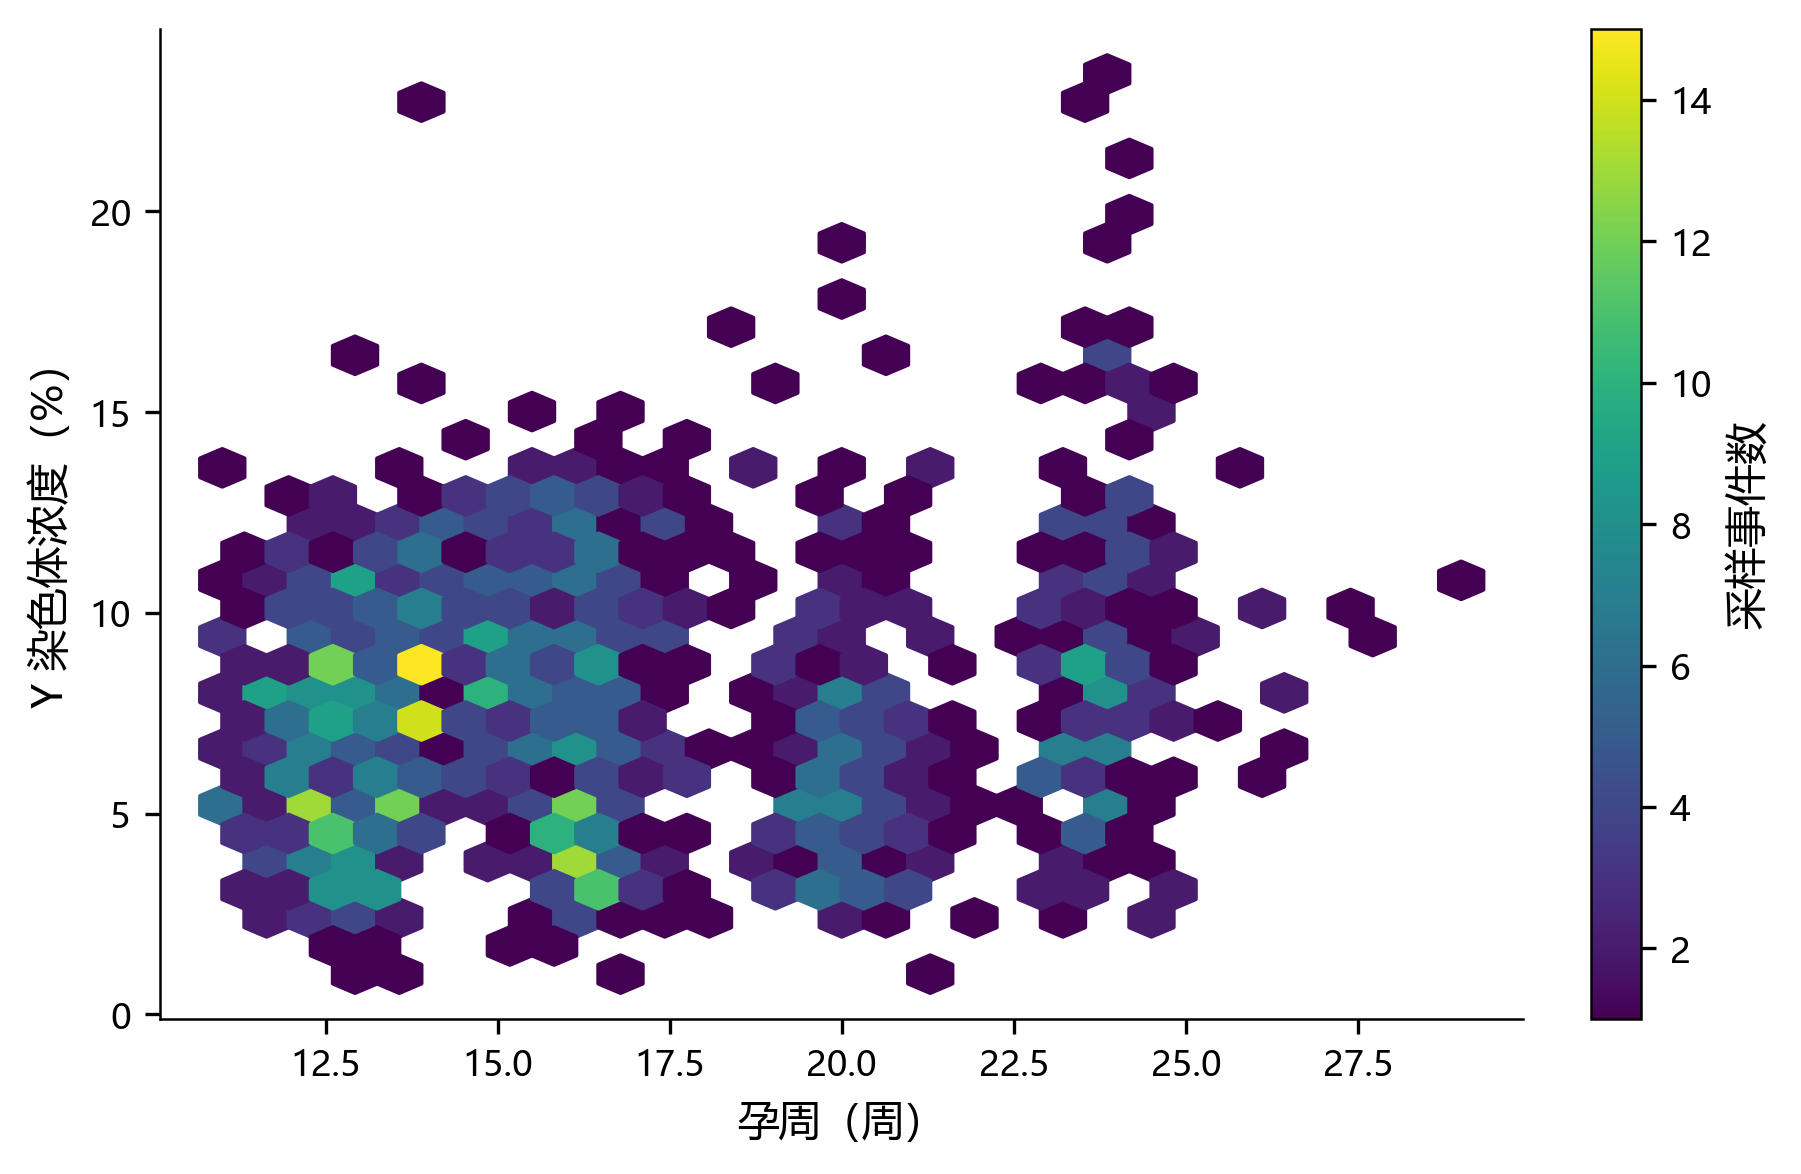
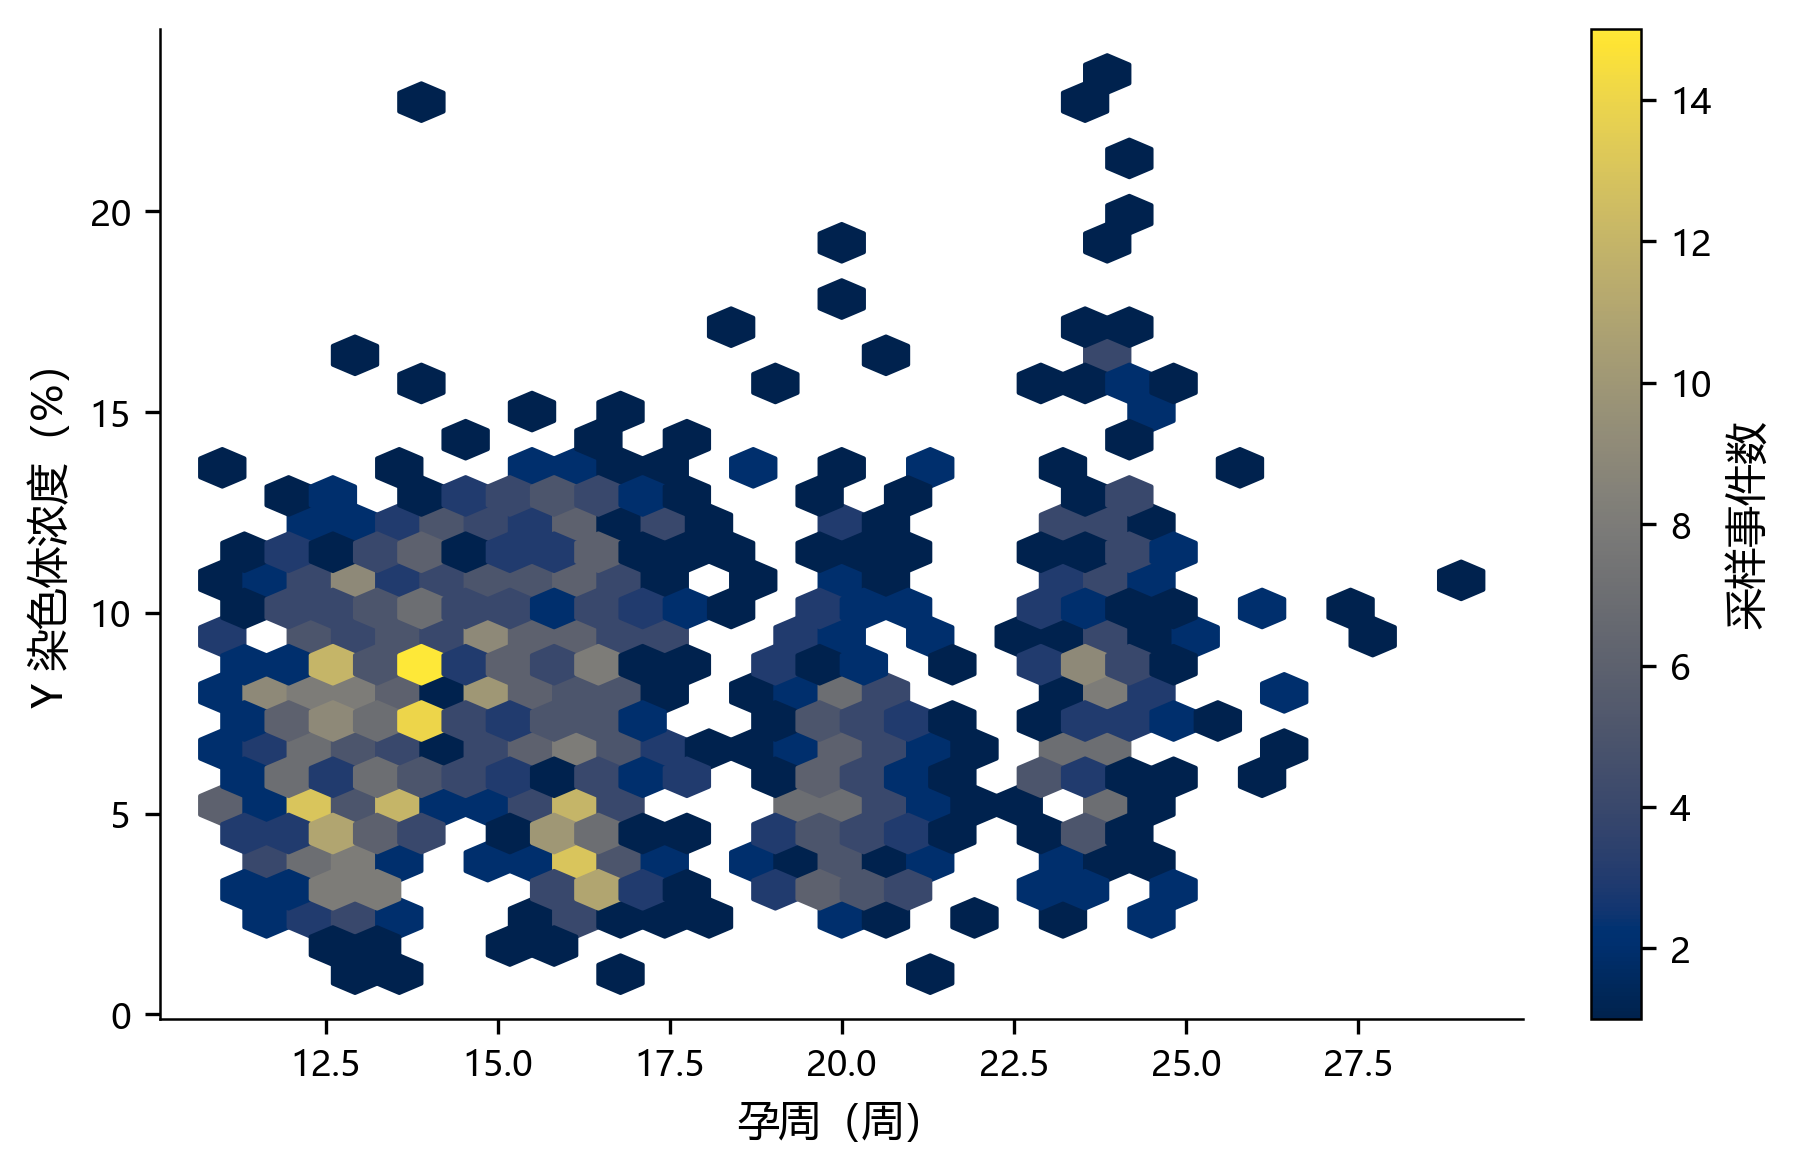
修改第一问图片

diff --git a/src/mycumcm2025c/q1_relationship.py b/src/mycumcm2025c/q1_relationship.py
@@ -12,6 +12,7 @@ import matplotlib.pyplot as plt
 import numpy as np
 import pandas as pd
 import statsmodels.formula.api as smf
+from matplotlib.colors import LinearSegmentedColormap, TwoSlopeNorm
 from scipy import stats
 from statsmodels.genmod.cov_struct import Exchangeable
 from statsmodels.genmod.families import Gaussian
@@ -41,7 +42,21 @@ CONTROLS = [
     "log_raw_reads",
 ]
 
-PLOT_COLORS = ["#0F6BBD", "#F26F21", "#9ECAE1", "#083C5F", "#7F8C8D"]
+PLOT_COLORS = {
+    "blue": "#0072B2",
+    "orange": "#E69F00",
+    "green": "#009E73",
+    "vermillion": "#D55E00",
+    "sky": "#56B4E9",
+    "magenta": "#CC79A7",
+    "grey": "#7A8588",
+    "light_grey": "#C7CDD4",
+    "ink": "#252525",
+}
+CORRELATION_CMAP = LinearSegmentedColormap.from_list(
+    "association", ["#2F6B8A", "#F7F7F5", "#C75B39"]
+)
+DENSITY_CMAP = mpl.colormaps["cividis"]
 
 CONTROL_TERMS = " + ".join([f"{name}_z" for name in CONTROLS] + ["assisted_conception"])
 WEEK_SPLINE = "cr(gestational_weeks, df=4, constraints='center')"
@@ -206,7 +221,7 @@ def key_prediction_table(grid: pd.DataFrame) -> pd.DataFrame:
     return pd.DataFrame(rows)
 
 
-def configure_plot_style() -> list[str]:
+def configure_plot_style() -> dict[str, str]:
     """Apply a self-contained publication style without external skill files."""
     mpl.rcParams.update(
         {
@@ -242,40 +257,87 @@ def create_figures(events: pd.DataFrame, grid: pd.DataFrame, result: object, out
     output_dir.mkdir(parents=True, exist_ok=True)
 
     fig, ax = plt.subplots(figsize=(5.9, 3.8))
-    hb = ax.hexbin(events["gestational_weeks"], 100 * events["y_fraction"], gridsize=28, mincnt=1, cmap="viridis")
+    hb = ax.hexbin(
+        events["gestational_weeks"],
+        100 * events["y_fraction"],
+        gridsize=28,
+        mincnt=1,
+        cmap=DENSITY_CMAP,
+    )
     ax.set(xlabel="孕周（周）", ylabel="Y 染色体浓度（%）")
     fig.colorbar(hb, ax=ax, label="采样事件数")
     fig.savefig(output_dir / "raw_q1_week_hexbin.png", dpi=300, bbox_inches="tight")
     plt.close(fig)
 
     fig, ax = plt.subplots(figsize=(5.9, 3.8))
-    hb = ax.hexbin(events["bmi_analysis"], 100 * events["y_fraction"], gridsize=28, mincnt=1, cmap="viridis")
+    bmi_bins = pd.qcut(events["bmi_analysis"], q=10, duplicates="drop")
+    binned = (
+        events.assign(bmi_bin=bmi_bins)
+        .groupby("bmi_bin", observed=True)
+        .agg(
+            bmi=("bmi_analysis", "median"),
+            y_median=("y_fraction", "median"),
+            y_q1=("y_fraction", lambda values: values.quantile(0.25)),
+            y_q3=("y_fraction", lambda values: values.quantile(0.75)),
+        )
+        .reset_index(drop=True)
+    )
+    ax.errorbar(
+        binned["bmi"],
+        100 * binned["y_median"],
+        yerr=np.vstack(
+            [100 * (binned["y_median"] - binned["y_q1"]), 100 * (binned["y_q3"] - binned["y_median"])]
+        ),
+        fmt="o-",
+        color=colors["vermillion"],
+        markerfacecolor="white",
+        markeredgewidth=1.1,
+        capsize=3,
+    )
     ax.set(xlabel="BMI（kg/m²）", ylabel="Y 染色体浓度（%）")
-    fig.colorbar(hb, ax=ax, label="采样事件数")
-    fig.savefig(output_dir / "raw_q1_bmi_hexbin.png", dpi=300, bbox_inches="tight")
+    fig.savefig(output_dir / "raw_q1_bmi_binned.png", dpi=300, bbox_inches="tight")
     plt.close(fig)
 
     corr_columns = ["y_fraction", "gestational_weeks", "bmi_analysis", "age_years", "gc_ratio", "mapping_ratio", "duplicate_ratio", "filtered_ratio"]
     labels = ["Y浓度", "孕周", "BMI", "年龄", "GC", "比对率", "重复率", "过滤率"]
     corr = events[corr_columns].corr(method="spearman")
     fig, ax = plt.subplots(figsize=(5.9, 4.9))
-    upper_triangle = np.triu(np.ones_like(corr, dtype=bool), k=0)
-    masked_corr = np.ma.array(corr.to_numpy(), mask=upper_triangle)
     off_diagonal_limit = float(np.abs(corr.to_numpy()[~np.eye(len(corr), dtype=bool)]).max())
-    image = ax.imshow(masked_corr, vmin=-off_diagonal_limit, vmax=off_diagonal_limit)
+    norm = TwoSlopeNorm(vmin=-off_diagonal_limit, vcenter=0, vmax=off_diagonal_limit)
+    ax.set_xlim(-0.5, len(labels) - 0.5)
+    ax.set_ylim(len(labels) - 0.5, -0.5)
+    ax.set_aspect("equal")
     ax.set_xticks(range(len(labels)), labels, rotation=45, ha="right")
     ax.set_yticks(range(len(labels)), labels)
     for i in range(len(labels)):
         for j in range(i):
-            ax.text(j, i, f"{corr.iloc[i, j]:.2f}", ha="center", va="center", fontsize=7.5)
-    fig.colorbar(image, ax=ax, label="Spearman 相关系数")
+            value = corr.iloc[i, j]
+            ax.scatter(
+                j,
+                i,
+                s=90 + 650 * abs(value) / off_diagonal_limit,
+                marker="s",
+                c=[value],
+                cmap=CORRELATION_CMAP,
+                norm=norm,
+                edgecolors="white",
+                linewidths=0.7,
+            )
+            ax.text(j, i, f"{value:.2f}", ha="center", va="center", fontsize=7.5, color=colors["ink"])
+    for spine in ax.spines.values():
+        spine.set_visible(False)
+    ax.tick_params(length=0)
+    scalar = mpl.cm.ScalarMappable(norm=norm, cmap=CORRELATION_CMAP)
+    fig.colorbar(scalar, ax=ax, label="Spearman 相关系数", shrink=0.82)
     fig.savefig(output_dir / "raw_q1_correlation_heatmap.png", dpi=300, bbox_inches="tight")
     plt.close(fig)
 
     fig, ax = plt.subplots(figsize=(5.9, 3.8))
-    for color, bmi in zip(colors[:4], sorted(grid["bmi_analysis"].unique())):
+    curve_colors = [colors["blue"], colors["orange"], colors["green"], colors["vermillion"]]
+    line_styles = ["-", "--", "-.", ":"]
+    for color, line_style, bmi in zip(curve_colors, line_styles, sorted(grid["bmi_analysis"].unique())):
         subset = grid[grid["bmi_analysis"] == bmi]
-        ax.plot(subset["gestational_weeks"], 100 * subset["predicted_y_fraction"], color=color, label=f"BMI={bmi:g}")
+        ax.plot(subset["gestational_weeks"], 100 * subset["predicted_y_fraction"], color=color, linestyle=line_style, label=f"BMI={bmi:g}")
         ax.fill_between(subset["gestational_weeks"], 100 * subset["ci_low"], 100 * subset["ci_high"], color=color, alpha=0.12)
     ax.axhline(4, color="#555555", linestyle="--", linewidth=0.9)
     ax.set(xlabel="孕周（周）", ylabel="调整后 Y 染色体浓度（%）")
@@ -287,27 +349,42 @@ def create_figures(events: pd.DataFrame, grid: pd.DataFrame, result: object, out
     observed = events["logit_y"].to_numpy()
     residual = observed - fitted
     fig, ax = plt.subplots(figsize=(5.9, 3.8))
-    ax.scatter(_inverse_logit(fitted) * 100, residual, s=10, alpha=0.35, color=colors[0], edgecolors="none")
+    ax.scatter(_inverse_logit(fitted) * 100, residual, s=10, alpha=0.35, color=colors["blue"], edgecolors="none")
     ax.axhline(0, color="#555555", linestyle="--", linewidth=0.9)
     ax.set(xlabel="拟合 Y 染色体浓度（%）", ylabel="Logit 尺度残差")
     fig.savefig(output_dir / "process_q1_residuals.png", dpi=300, bbox_inches="tight")
     plt.close(fig)
 
-    fig, ax = plt.subplots(figsize=(5.9, 3.8))
+    fig = plt.figure(figsize=(5.9, 5.1))
+    layout = fig.add_gridspec(2, 2, height_ratios=[1, 4], width_ratios=[4, 1], hspace=0.06, wspace=0.06)
+    ax_top = fig.add_subplot(layout[0, 0])
+    ax = fig.add_subplot(layout[1, 0])
+    ax_right = fig.add_subplot(layout[1, 1])
     observed_percent = 100 * events["y_fraction"].to_numpy()
     fitted_percent = 100 * _inverse_logit(fitted)
-    ax.scatter(observed_percent, fitted_percent, s=10, alpha=0.35, color=colors[0], edgecolors="none")
+    ax.scatter(observed_percent, fitted_percent, s=11, alpha=0.34, color=colors["blue"], edgecolors="none")
     limits = [min(observed_percent.min(), fitted_percent.min()), max(observed_percent.max(), fitted_percent.max())]
-    ax.plot(limits, limits, color="#555555", linestyle="--", linewidth=0.9)
+    ax.plot(limits, limits, color=colors["grey"], linestyle="--", linewidth=0.9)
     ax.set(xlabel="观测 Y 染色体浓度（%）", ylabel="拟合 Y 染色体浓度（%）", xlim=limits, ylim=limits)
+    bins = np.linspace(limits[0], limits[1], 24)
+    ax_top.hist(observed_percent, bins=bins, color=colors["sky"], alpha=0.60, edgecolor="white")
+    ax_top.set_xlim(limits)
+    ax_top.tick_params(labelbottom=False, labelleft=False, length=0)
+    ax_top.spines["left"].set_visible(False)
+    ax_top.spines["bottom"].set_visible(False)
+    ax_right.hist(fitted_percent, bins=bins, orientation="horizontal", color=colors["orange"], alpha=0.65, edgecolor="white")
+    ax_right.set_ylim(limits)
+    ax_right.tick_params(labelbottom=False, labelleft=False, length=0)
+    ax_right.spines["left"].set_visible(False)
+    ax_right.spines["bottom"].set_visible(False)
     fig.savefig(output_dir / "process_q1_observed_fitted.png", dpi=300, bbox_inches="tight")
     plt.close(fig)
 
     fig, ax = plt.subplots(figsize=(5.9, 3.8))
     stats.probplot(residual, dist="norm", plot=ax)
     ax.set(xlabel="理论分位数", ylabel="残差分位数")
-    ax.get_lines()[0].set(color=colors[0], markersize=3, alpha=0.5)
-    ax.get_lines()[1].set(color=colors[1], linewidth=1)
+    ax.get_lines()[0].set(color=colors["blue"], markersize=3, alpha=0.5)
+    ax.get_lines()[1].set(color=colors["vermillion"], linewidth=1)
     fig.savefig(output_dir / "process_q1_qq.png", dpi=300, bbox_inches="tight")
     plt.close(fig)
 
@@ -316,7 +393,7 @@ def create_figures(events: pd.DataFrame, grid: pd.DataFrame, result: object, out
     selected = selected.sort_values("estimate")
     fig, ax = plt.subplots(figsize=(5.9, 3.8))
     y = np.arange(len(selected))
-    ax.errorbar(selected["estimate"], y, xerr=[selected["estimate"] - selected["ci_low"], selected["ci_high"] - selected["estimate"]], fmt="o", color=colors[0], ecolor=colors[2], capsize=2)
+    ax.errorbar(selected["estimate"], y, xerr=[selected["estimate"] - selected["ci_low"], selected["ci_high"] - selected["estimate"]], fmt="o", color=colors["blue"], ecolor=colors["sky"], capsize=2)
     ax.axvline(0, color="#555555", linestyle="--", linewidth=0.9)
     ax.set_yticks(y, selected["term"].str.replace("_z", "", regex=False))
     ax.set(xlabel="Logit 尺度回归系数", ylabel="校正变量")
@@ -332,8 +409,8 @@ def create_significance_figure(comparisons: dict[str, dict[str, float]], output_
     display_values = np.minimum(values, 12.0)
     fig, ax = plt.subplots(figsize=(5.9, 3.6))
     positions = np.arange(len(labels))
-    ax.hlines(positions, 0, display_values, color="#C7CDD4", linewidth=1.2)
-    ax.scatter(display_values, positions, color=[colors[0], colors[1], colors[4]], s=34, zorder=3)
+    ax.hlines(positions, 0, display_values, color=colors["light_grey"], linewidth=1.2)
+    ax.scatter(display_values, positions, color=[colors["blue"], colors["orange"], colors["grey"]], s=34, zorder=3)
     ax.axvline(-math.log10(0.05), color="#555555", linestyle="--", linewidth=0.9)
     ax.set_yticks(positions, labels)
     ax.set(xlabel="-log10(P)", ylabel="联合检验项")
